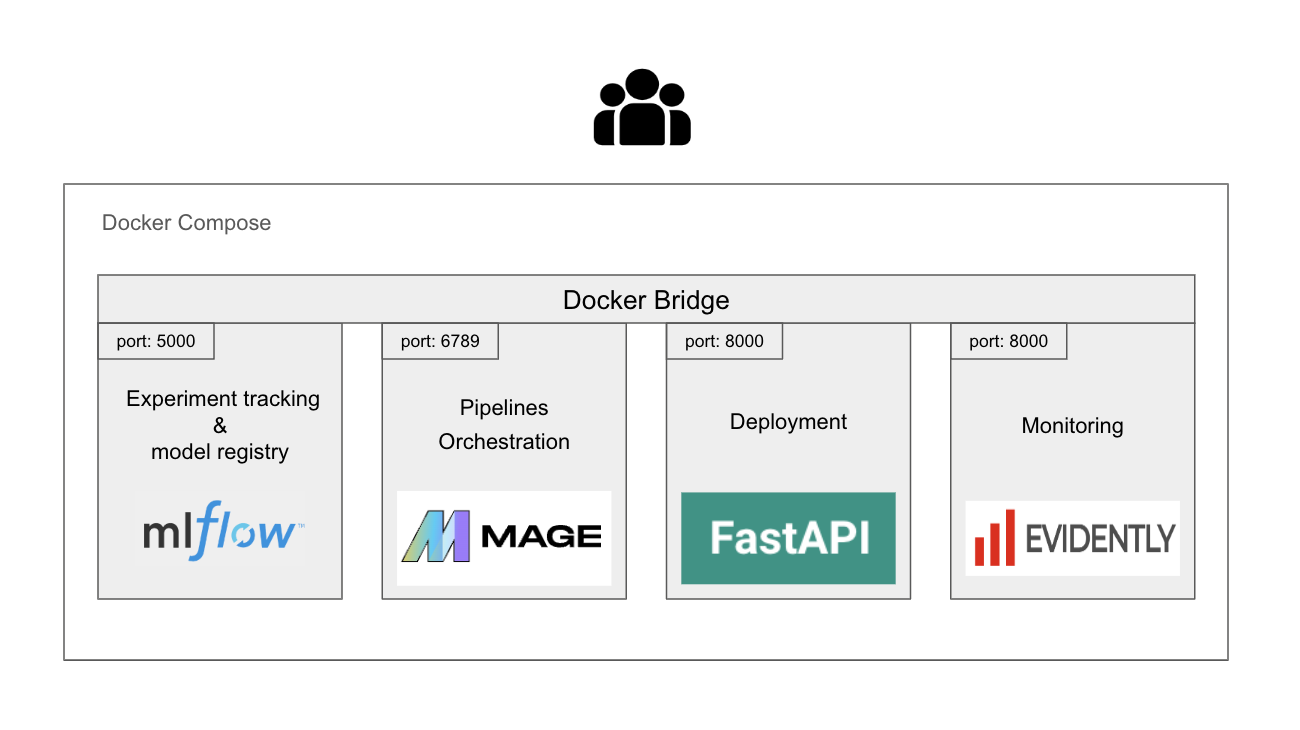
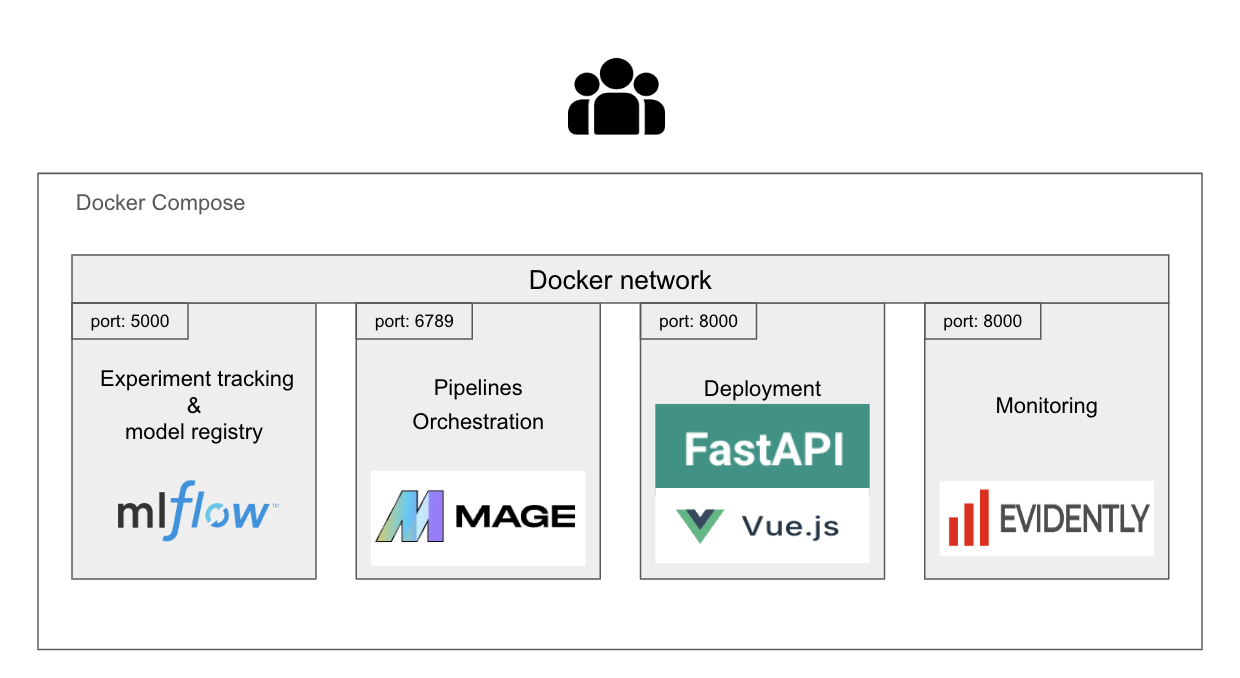
UPDATE: more in the readme's

diff --git a/6-user_interface/ui_project/src/views/AdminMlops.vue b/6-user_interface/ui_project/src/views/AdminMlops.vue
@@ -4,6 +4,8 @@
     <h1>ML experiements</h1>
     <button @click="redirect_to_notebook_server">Jupyter server</button>
     <br>
+    <button @click="redirect_to_mlflow_project">Mlflow Project Dashboard</button>
+    <br>
     <h1>Pipeline management</h1>
     <button @click="trigger_etl_mage">Trigger E.T.L pipeline</button>
     <br>
@@ -45,5 +47,9 @@ const redirect_to_monitoring_report = () => {
 
 const redirect_to_notebook_server = () => {
   window.location.href = 'http://localhost:8888/';
+};
+
+const redirect_to_mlflow_project = () => {
+  window.location.href = 'http://localhost:5000/#/experiments/1';
 };
 </script>

diff --git a/README.md b/README.md
@@ -1,20 +1,20 @@
-##  Forcast France global energie consumption 
+##  Forcast France global energy consumption 
 
-### About the Project:
-This project utilizes historical daily data on France's energy consumption to forecast the energy consumption for  a week ahead  from the data . It is essentially a time series forecasting attempt.
-
+In short, it is a time series forecasting attempt. This utilizes historical daily data on France's energy consumption to forecast the energy consumption days ahead. 
 The historical data are coming from RTE,it is  France's Transmission System Operator. To find the data and douvble check the data got their [data portal](https://www.services-rte.com/en/download-data-published-by-rte.html?category=consumption&type=energy_consumption). (you probably need to create an free account...), I saved the data used in a [google drive folder](https://drive.google.com/drive/folders/1-XpTf70thgwDp7z4k2AxOetPem9Mz5ya?usp=sharing) 
 
-
-The project is build with docker compose. In each folder, there is a dockerfile and a readme corresponding to a topic of the course.In these readme there are more details about the implementation.
+The user interface has two parts, one for the foracsting model and one for the management of  model. This last part is intended to MLops. There you can trigger the ETL pipeline, access to Mage and Mlfow dashboard check the monitoring...
  
-Overview of the project 
+
 
 <img src="./README_docs/sys_overview.png" class="center" alt="drawing" width="600"/>
 
+The project is deplyed at this [ip_adress]("") 
+
 
 ### How to Run the Project Locally:
-First let's see how to start this project locally. you need to have Docker Compose installed, then follow these steps below: 
+It is build with docker compose. In each folder, there is a dockerfile and a readme corresponding to a topic of the course.In these readme there are more details about the implementation.
+To start the project, you need to have Docker Compose installed, then simply follow these steps below: 
 
 1. Clone the project repository:
    ```bash
@@ -27,30 +27,39 @@ First let's see how to start this project locally. you need to have Docker Compo
     docker compose up --build 
     ```
 
-After that  the project you be running. 
-go to http://localhost:8000/system_health_check
+You can check that the project is running properly if
+go to http://localhost:8000/system_health_check 
 
 
 ### Mlops Topics:
-All the main step, in terms Mlops practices have been implemented  on this project. 
-For each step  find below a short description and some explication about the implementation: 
+Mlops practices have been implemented  on this project, for each step  find below a short description and some explication about the implementation: 
 
 - 1  Experient Tracking & model registring:
 What does it mean and why is it a key feature in the machine learning ? Experiment tracking and model registration are crucial components in the machine learning workflow. It enables researchers and developers to systematically keep track of their experiments and share results with colleagues efficiently. Tools like MLflow provide a structured and organized way to manage this process.
 MLflow is an Open source tool that  allows users to track the models and parameters used during experiments. Additionally, it offers features for registering models and assigning them to different environments. This ensures that the entire machine learning process is transparent, reproducible, and easily shareable.
-On the project Mlflow is for tracking registring models. 
+
 
 [More about tracking implemention in the project](1-tracking/README.md)
 
-- 2  Pipeline orchestration available port:  In order to simplfy  process to collect, transform and intergrate data  tools like mage ai are used. it allow schedule sript to run easily via   user interface. it has a good Python / ui inferfacet  as  well a python client.
-    - web interface: http://localhost:6789/
+- 2  Pipeline orchestration available port: What does it mean and why is it also a key feature in the machine learning?  In order to simplfy  process of collecting, transforming and intergrating data, tools like [Mage ai](https://github.com/mage-ai/mage-ai) are used. it allows to schedule sripts and to run easily via interfaces. Mage ai has a good Python / ui inferfacet  as  well a python client. The tool is pretty young and has still some bugs but like  ( at least for me  it doesn't run well on Chrome but run smoothly on  Firefoxe)
 
 [More about Pipeline orchestration implemention in the project](2-orchestration/README.md)
-- 3 Deployment (available port: 8000):
-FastAPI is used  for serving the model 
-    -  Docker
-    -  web server (fastapi)
+
+   
+- 3 Deployment:
+ 
+ The deployement is the heart of this  project,  it is  what allows connectiviting beteween all the pieces. It includes a backend  which communinicate with Mlflow, Mage and the monitoring and server  most of it.  
+ It also includes a frontend sever for  the user interface. 
+
+ [More about  the deployment implemention in the project](3-deployment/README.md)
+
+
+ For  the backend FastAPI is used  for serving the model 
+    - Web server (fastapi)
     - Endpoint to serve the model 
+
+For the user interface  a Vuejs server has been setup
+
 
 - 4 Monitoring:
     - Service

diff --git a/1-tracking/README.md b/1-tracking/README.md
@@ -1,45 +1,48 @@
 # About Experiment tracking and model registry
+On the project, there is  a jupyter server dedicated to  Ml experiments. 
+Mlflow is used for tracking and registring models. 
 
-## About mflow setup:  
 
-[Experiement Notebook](http://localhost:8888/notebooks/MLOPS_Project.ipynb)
-If you explore and run the jupyter notebook you will be able to  find some 
+## 1- About Project's experiments: 
+
+On forcasting .... 
+
+
+[Experiement Notebook](http://localhost:8888/notebooks/notebook_experiment.ipynb) If you explore and run the jupyter notebook you will be able to  find some 
     -  hyperparameter tuning 
     -  experiment tracking 
     -  data version control 
     -  model registry 
 
+If you want to reproduce the experiments and try model management model registry.You can access the notebook and run it from the docker container. 
 
+
+<img src="./docs/run_all_cells_pics.png" alt="drawing" width="400"  class="center"/>
+
+It will last around 5 minutes to run all the cells, ater that  you should see in mlfow some tracking data
+
+
+## 2- About  Experiments tracking  & model registering:
 
 The server  mlflow server is available on port http://localhost:5000/
 
-<img src="./docs/mflow_setup.png " alt="drawing" width="400" class="center/>
-
-If you want to reproduce the experiments and try model management model registry.You can access the notebook and run it from the docker container. 
-
-http://localhost:8888/notebooks/notebook_experiment.ipynb
-
-Data will  produced  in the container folder mlruns and models,   
-the sqlite database. It should be produced locally as well as in the container.
-
-<img src="./docs/run_all_cells_pics.png" alt="drawing" width="400"/>
-
-it lasts around 5 minutes to run. 
-
-Ater that  you should see
-
 An overview of all the runs 
 
-<img src="./docs/mlflows_runs.png" alt="drawing" width="4 00"/>
+<img src="./docs/mlflows_runs.png" alt="drawing" width="400"  class="center"/>
 
 you can click on an a specific run  and have an overview of all the parameters 
 
-<img src="./docs/run_overview.png" alt="drawing" width="400"/>
+<img src="./docs/run_overview.png" alt="drawing" width="400"  class="center"/>
 
  as well as  the artifacts log
 
-<img src="./docs/mlflow_artifacts.png" alt="drawing" width="400"/>
+<img src="./docs/mlflow_artifacts.png" alt="drawing" width="400"  class="center"/>
 
 and finally you can also see the model registered
 
-<img src="./docs/model_registry.png" alt="drawing" width="400"/>
+<img src="./docs/model_registry.png" alt="drawing" width="400"  class="center"/>
+
+
+### About Mlflow setup: 
+
+<img src="./docs/mflow_setup.png" alt="drawing" width="400" class="center" />

diff --git a/2-orchestration/README.md b/2-orchestration/README.md
@@ -1,4 +1,6 @@
-#Pipeline Orchestraction 
+#Pipeline Orchestraction  in this project
+
+ - web interface: http://localhost:6789/
 
 You can try  try  MAGE on part 5000. [Mage on this project]{ocalhost:6789}  
 FOr some reason it works much better in firefox....

diff --git a/3-deployment/README.md b/3-deployment/README.md
@@ -1,0 +1,8 @@
+# About DEPLOYMENT 
+
+
+ For  the backend FastAPI is used  for serving the model 
+    - Web server (fastapi)
+    - Endpoint to serve the model 
+
+For the user interface  a Vuejs server has been setup
